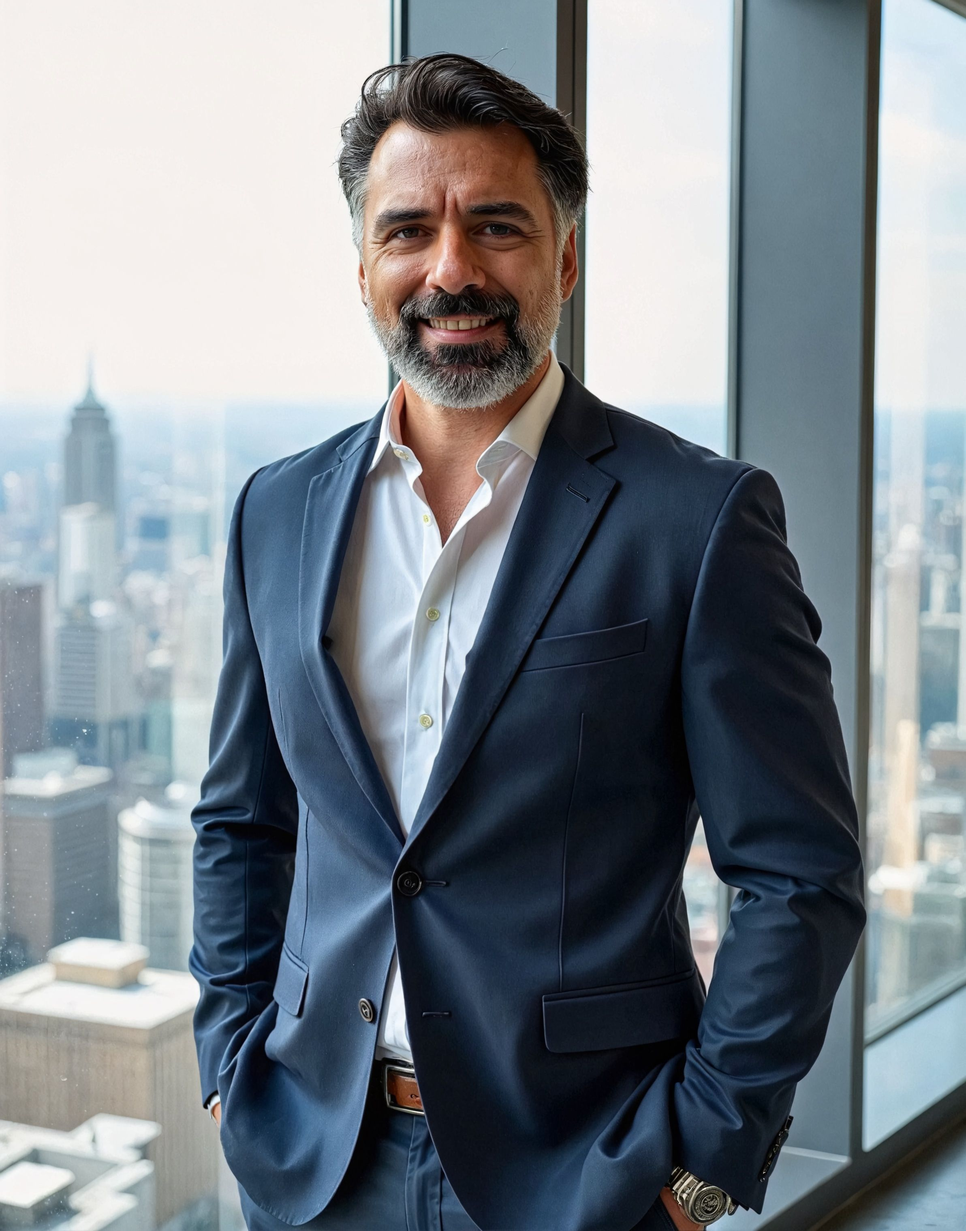
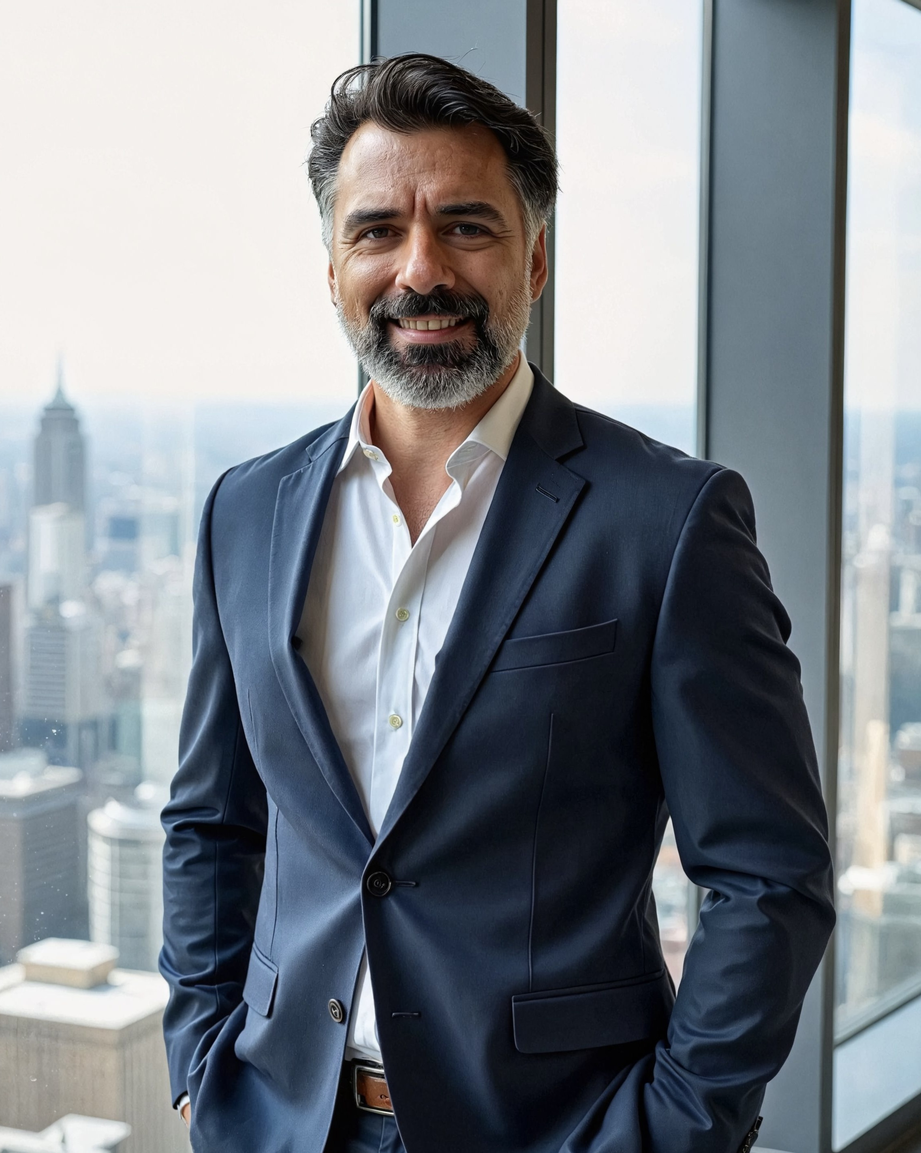
Update Hero section image and styling
Replit-Commit-Author: Agent
Replit-Commit-Session-Id: 1b9d5817-a102-4310-95b7-592e7430fab0
Replit-Commit-Screenshot-Url: https://storage.googleapis.com/screenshot-production-us-central1/98bda160-b8b5-4112-a224-35776a6dd1e6/660b3036-32af-4f1e-a4e9-71353247be3a.jpg

diff --git a/client/src/components/sections/Hero.tsx b/client/src/components/sections/Hero.tsx
@@ -41,7 +41,7 @@ export default function Hero() {
               <img
                 src="/images/Profile_Suit.jpg"
                 alt="Burak Bakkaloglu - HR Consultant"
-                className="rounded-lg object-cover shadow-xl"
+                className="rounded-lg object-cover shadow-xl w-full h-full"
               />
             </div>
             <div className="absolute -bottom-4 -right-4 w-32 h-32 bg-primary/10 rounded-full blur-2xl" />
